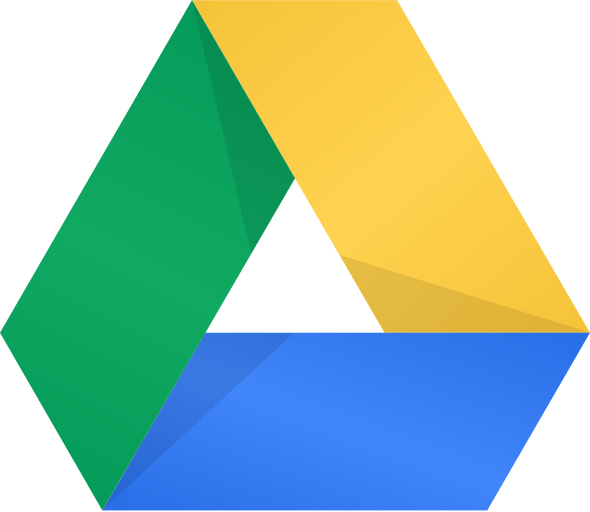
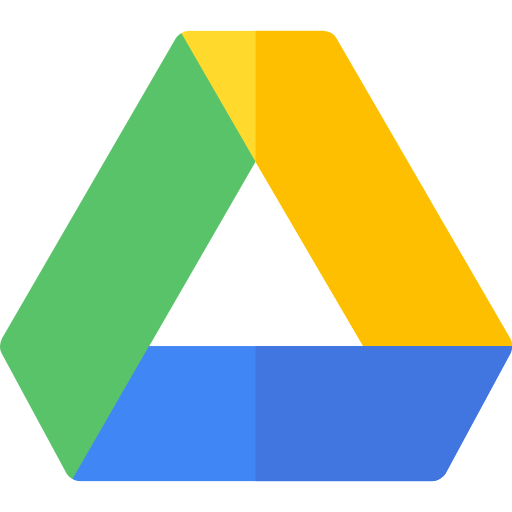
google drive integration done

diff --git a/components/customer/mapComponents/FileUpload.js b/components/customer/mapComponents/FileUpload.js
@@ -1,4 +1,4 @@
-import { List, Divider, Upload, message, Button, Typography, Row, Col, Spin, Modal } from 'antd';
+import { List, Divider, Upload, message, Button, Typography, Row, Col, Spin, Modal, Card } from 'antd';
 import styled from 'styled-components';
 import { useState, useRef } from 'react';
 import { InboxOutlined } from '@ant-design/icons';
@@ -17,11 +17,17 @@ const DISCOVERY_DOCS = ['https://www.googleapis.com/discovery/v1/apis/drive/v3/r
 const SCOPES = 'https://www.googleapis.com/auth/drive';
 const { Title } = Typography;
 const { Dragger } = Upload;
-const SelectType = styled(Button)`
-  margin-bottom: 10px;
-  width:100px;
-  height:80px;
+const DataCard = styled(Card)`
+:hover{
+    opacity:0.8;
+    cursor:pointer;
+}
 `;
+const Photo = styled.img`
+  width:70%;
+  height:70%;
+  
+`
 const DataTypeLayout = styled.div`
     padding:20px;
 `;
@@ -29,17 +35,20 @@ const data = [
     {
         title: 'csv',
         type: ['application/vnd.ms-excel', 'text/csv'],
-        key: 1
+        key: 1,
+        src: '/csv.png'
     },
     {
         title: 'geojson',
         type: ['application/json'],
-        key: 2
+        key: 2,
+        src: '/json-file.png'
     },
     {
-        title: 'google drive',
+        title: 'gdrive',
         type: ['googleDrive'],
-        key: 3
+        key: 3,
+        src: '/google-drive.png'
     }
 
 ];
@@ -54,6 +63,13 @@ const FileUpload = ({ onChangeEvent, googleDriveFile }) => {
 
     //google drive part..............................................................
     const listFiles = (searchTerm = null) => {
+        let query = "";
+        if (searchTerm === null) {
+            query = "mimeType='text/csv' or mimeType='application/json' or mimeType='application/vnd.openxmlformats-officedocument.spreadsheetml.sheet' or mimeType='application/vnd.ms-excel'"
+
+        } else {
+            query = searchTerm;
+        }
         setIsLoadingGoogleDriveApi(true);
         try {
             gapi.client.drive.files
@@ -61,7 +77,7 @@ const FileUpload = ({ onChangeEvent, googleDriveFile }) => {
                     pageSize: 1000,
                     fields: 'nextPageToken, files(id, name, mimeType, modifiedTime, size)',
                     // q: searchTerm,
-                    q: "mimeType='text/csv' or mimeType='application/json' or mimeType='application/vnd.openxmlformats-officedocument.spreadsheetml.sheet' or mimeType='application/vnd.ms-excel'",
+                    q: query
 
                 })
                 .then(function (response) {
@@ -71,7 +87,7 @@ const FileUpload = ({ onChangeEvent, googleDriveFile }) => {
                         setDocuments(res.files);
                         setIsLoadingGoogleDriveApi(false);
                         setListDocumentsVisibility(true);
-                    } 
+                    }
                 });
         } catch (e) {
             setIsLoadingGoogleDriveApi(false);
@@ -91,7 +107,6 @@ const FileUpload = ({ onChangeEvent, googleDriveFile }) => {
      */
     const updateSigninStatus = (isSignedIn) => {
         if (isSignedIn) {
-            console.log(isSignedIn, 'signed in')
             // Set the signed in user
             setSignedInUser(gapi.auth2.getAuthInstance().currentUser.le.wt);
             setIsLoadingGoogleDriveApi(false);
@@ -99,7 +114,6 @@ const FileUpload = ({ onChangeEvent, googleDriveFile }) => {
             listFiles();
         } else {
             // prompt user to sign in
-            console.log('not signed in')
             handleAuthClick();
         }
     };
@@ -110,14 +124,7 @@ const FileUpload = ({ onChangeEvent, googleDriveFile }) => {
     const handleSignOutClick = (event) => {
         setListDocumentsVisibility(false);
         let auth2 = gapi.auth2.getAuthInstance();
-        console.log(auth2);
-        auth2.signOut().then(() => {
-            gapi.signin2.render({
-                prompt: 'select_account'
-            })
-        });
-        console.log('check logged user', gapi.auth2.getAuthInstance().signIn());
-
+        auth2.signOut();
     };
 
     /**
@@ -199,7 +206,7 @@ const FileUpload = ({ onChangeEvent, googleDriveFile }) => {
         <Spin spinning={isLoadingGoogleDriveApi}>
             <DataTypeLayout>
                 <Modal
-                    width={800}
+                    width='80%'
                     title={DATASET.ADD_DATASET}
                     centered
                     visible={listDocumentsVisible}
@@ -222,18 +229,16 @@ const FileUpload = ({ onChangeEvent, googleDriveFile }) => {
                 </Modal>
                 <List
                     grid={{
-                        gutter: [16, 16],
-                        xs: 1,
-                        sm: 2,
-                        md: 3,
-                        lg: 4,
-                        xl: 5,
-                        xxl: 6
+                        gutter: 10,
+                        column: 4
                     }}
                     dataSource={fileTypes}
                     renderItem={item => (
                         <List.Item key={item.key}>
-                            <SelectType className={item.isSelected ? 'selectedBox' : ''} onClick={() => changeType(item.type)} >{item.title}</SelectType>
+                            <DataCard onClick={() => changeType(item.type)} style={{ textAlign: "center" }} >
+                                <Photo src={item.src} />
+                                <h4 >{item.title}</h4>
+                            </DataCard>
                         </List.Item>
                     )}
                 />

diff --git a/components/customer/mapComponents/ListDocuments/index.js b/components/customer/mapComponents/ListDocuments/index.js
@@ -1,7 +1,6 @@
 import React, { useCallback, useState } from 'react';
 import moment from 'moment';
 import { debounce } from 'lodash';
-import csv from 'csv';
 import { gapi } from 'gapi-script';
 import { Col, Drawer, Row, Button, Input, Table, Tooltip, Spin } from 'antd';
 import styled from 'styled-components';
@@ -77,9 +76,9 @@ const ListDocuments = ({ documents = [], onSearch, signedInUser, onSignOut, onMo
           <Col span={24}>
             <div style={{ marginBottom: 20 }}>
               <p>Signed In as: {`${signedInUser?.Ad} (${signedInUser?.cu})`}</p>
-              <Button type="primary" onClick={onSignOut}>
+              {/* <Button type="primary" onClick={onSignOut}>
                 Sign Out
-              </Button>
+              </Button> */}
             </div>
 
             <div className="table-card-actions-container">
@@ -95,7 +94,6 @@ const ListDocuments = ({ documents = [], onSearch, signedInUser, onSignOut, onMo
               </div>
             </div>
             <Table
-              className="table-striped-rows"
               columns={columns}
               dataSource={documents}
               pagination={{ pageSize: 20 }}

diff --git a/pages/customer/datasets.js b/pages/customer/datasets.js
@@ -51,9 +51,6 @@ const Dataset = ({ authenticatedUser, collapsed, locked_data, unlocked_data, tag
                 description,
         });
     };
-    const setFileMetaData = (metaData) => {
-
-    }
     const googleDriveFile = (metaData, data) => {
         setMetaData(
             {
@@ -113,8 +110,6 @@ const Dataset = ({ authenticatedUser, collapsed, locked_data, unlocked_data, tag
         })
     }
     const onChangeFile = ({ file }) => {
-        console.log(file.originFileObj.name, 'file')
-
         setMetaData(
             {
                 title: file.originFileObj.name,

diff --git a/components/client/layout/NavBar.js b/components/client/layout/NavBar.js
@@ -45,7 +45,6 @@ const NavBar = ({ isMobileSize, toggle, walletAddress, publicUser, mapData, inje
     const [serverPublicUser, setServerPublicUser] = useState(publicUser);
     const { login, logout } = UseAuth();
     const [publicuserImage, setPublicUserImage] = useState(publicUser.picture);
-    console.log(publicuserImage);
     const onModalClose = (res) => {
         setServerPublicUser(res);
         setPublicUserImage(res.picture);
